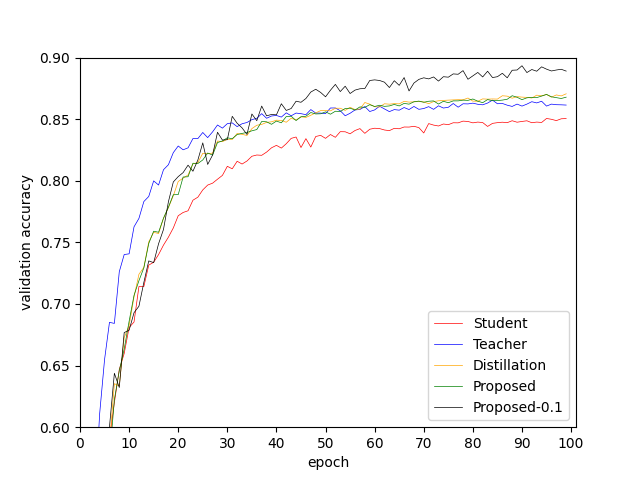
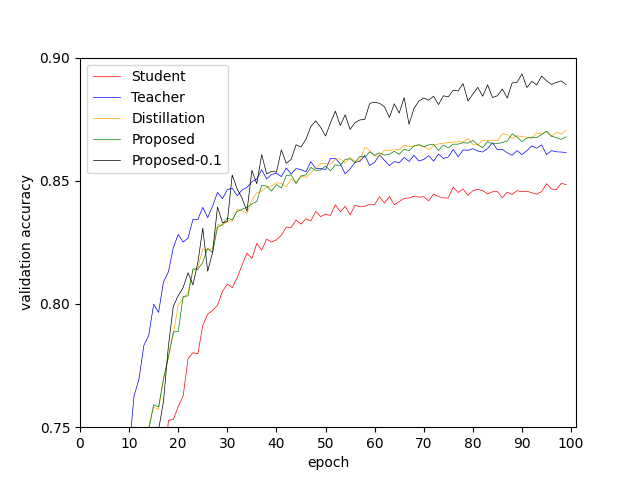
cam-distillation

diff --git a/resnet_train_kd.py b/resnet_train_kd.py
@@ -45,9 +45,9 @@ def main():
         test_dataloader = DataLoader(testset, batch_size=batch_size, shuffle=False)
         
         teacher = resnet_teacher().to(device)
-        student = SampleModel().to(device)
+        student = resnet_student().to(device)
         
-        teacher.load_state_dict(torch.load('./logs/resnet/teacher/' + str(i) + '.pth')) # 変更箇所: str(i) -> str(0)
+        teacher.load_state_dict(torch.load('./logs/resnet/teacher/' + str(i) + '.pth')) 
         loss_fn = nn.CrossEntropyLoss()
         student_hist = {'loss': [], 'accuracy': [], 'val_loss': [], 'val_accuracy': []}
         
@@ -81,7 +81,7 @@ def main():
                 images, labels = images.to(device), labels.to(device)
                 preds, _ = student(images)
                 targets, _ = teacher(images)
-                loss = loss_fn(preds, labels) + T*T*soft_loss(preds, targets)
+                loss = 0.5*loss_fn(preds, labels) + 0.5*T*T*soft_loss(preds, targets)
                 optim.zero_grad()
                 loss.backward()
                 optim.step()
@@ -97,7 +97,7 @@ def main():
                     images, labels = images.to(device), labels.to(device)
                     preds, _ = student(images)
                     targets, _ = teacher(images)
-                    loss = loss_fn(preds, labels) + T*T*soft_loss(preds, targets)
+                    loss = 0.5*loss_fn(preds, labels) + 0.5*T*T*soft_loss(preds, targets)
                     val_loss += loss.item()
                     val_acc += accuracy_score(labels.tolist(), preds.argmax(dim=-1).tolist())
                 val_loss /= len(val_dataloader)
@@ -106,8 +106,7 @@ def main():
             if score <= val_acc:
                 print('save param')
                 score = val_acc
-                # torch.save(student.state_dict(), './logs/resnet/st/' + str(i) + '.pth') 
-                torch.save(student.state_dict(), './logs/resnet/distillation/' + str(i) + '.pth') 
+                torch.save(student.state_dict(), './logs/resnet/st/' + str(i) + '.pth') 
             
             student_hist['loss'].append(train_loss)
             student_hist['accuracy'].append(train_acc)
@@ -116,13 +115,10 @@ def main():
 
             print(f'epoch: {epoch+1}, loss: {train_loss:.3f}, accuracy: {train_acc:.3f}, val_loss: {val_loss:.3f}, val_accuracy: {val_acc:.3f}')
             
-            # with open('./history/resnet/st/' + str(i) + '.pickle', mode='wb') as f:
-            #     pickle.dump(student_hist, f)
-            with open('./history/resnet/distillation/' + str(i) + '.pickle', mode='wb') as f:
+            with open('./history/resnet/st/' + str(i) + '.pickle', mode='wb') as f:
                 pickle.dump(student_hist, f)
 
-        # student.load_state_dict(torch.load('./logs/resnet/st/' + str(i) + '.pth'))
-        student.load_state_dict(torch.load('./logs/resnet/distillation/' + str(i) + '.pth'))
+        student.load_state_dict(torch.load('./logs/resnet/st/' + str(i) + '.pth'))
         test = {'acc': [], 'loss': []}
         # distillation student test
         student.eval()
@@ -141,10 +137,8 @@ def main():
 
         test['acc'].append(test_acc)
         test['loss'].append(test_loss)
-        # with open('./history/resnet/st/test' + str(i) + '.pickle', mode='wb') as f:
-        #     pickle.dump(test, f)
-        with open('./history/resnet/distillation/test' + str(i) + '.pickle', mode='wb') as f:
+        with open('./history/resnet/st/test' + str(i) + '.pickle', mode='wb') as f:
             pickle.dump(test, f)
-
+        
 if __name__ == '__main__':
     main()

diff --git a/resnet_test.py b/resnet_test.py
@@ -40,14 +40,14 @@ def main():
         student = resnet_student().to(device)
         test_model = resnet_student().to(device)
         st = resnet_student().to(device)
-        sample = resnet_student().to(device)
+        # sample = resnet_student().to(device)
         proposed = resnet_student().to(device)
         
         teacher.load_state_dict(torch.load('./logs/resnet/teacher/' + str(i) + '.pth'))
         student.load_state_dict(torch.load('./logs/resnet/student/' + str(i) + '.pth'))
-        # test_model.load_state_dict(torch.load('./logs/resnet/cam/' + str(i) + '.pth'))
-        # st.load_state_dict(torch.load('./logs/resnet/st/' + str(i) + '.pth'))
-        sample.load_state_dict(torch.load('./logs/resnet/sample/' + str(i) + '.pth'))
+        test_model.load_state_dict(torch.load('./logs/resnet/cam/' + str(i) + '.pth'))
+        st.load_state_dict(torch.load('./logs/resnet/st/' + str(i) + '.pth'))
+        # sample.load_state_dict(torch.load('./logs/resnet/sample/' + str(i) + '.pth'))
         proposed.load_state_dict(torch.load('./logs/resnet/cam/10.pth'))
         
         loss_fn = nn.CrossEntropyLoss()
@@ -57,7 +57,7 @@ def main():
         student.eval()
         test_model.eval()
         st.eval()
-        sample.eval()
+        # sample.eval()
         proposed.eval()
         
         with torch.no_grad():           

diff --git a/train_kd.py b/train_kd.py
@@ -14,7 +14,7 @@ from src.kd_loss.st import SoftTargetLoss
 import pickle
 
 def main():
-    for i in range(1):
+    for i in range(5):
         print(i+1)
         epochs = 50
         batch_size = 32
@@ -82,7 +82,7 @@ def main():
                 images, labels = images.to(device), labels.to(device)
                 preds = student(images)
                 targets = teacher(images)
-                loss = loss_fn(preds, labels) + T*T*soft_loss(preds, targets)
+                loss = 0.5*loss_fn(preds, labels) + 0.5*T*T*soft_loss(preds, targets)
                 optim.zero_grad()
                 loss.backward()
                 optim.step()

diff --git a/src/model.py b/src/model.py
@@ -403,11 +403,8 @@ class SampleModel(nn.Module):
         
 
 # ResNet98
-# def resnet_student(output_dim=10):
-#     return ResNetStudent(BottleNeck, [6,8,12,6], num_classes=output_dim)
-
 def resnet_student(output_dim=10):
-    return ResNetStudent(BottleNeck, [4,6,9,4], num_classes=output_dim)
+    return ResNetStudent(BottleNeck, [6,8,12,6], num_classes=output_dim)
 
 # ResNet50
 def resnet_teacher(output_dim=10):

diff --git a/resnet_result.py b/resnet_result.py
@@ -73,7 +73,7 @@ def main():
     plt.xticks(np.arange(0, 110, 10))
     plt.yticks(np.arange(0.55, 0.95, 0.05))
     plt.xlim(0, 101)
-    plt.ylim(0.60, 0.90)
+    plt.ylim(0.75, 0.90)
     
     plt.legend()
     plt.savefig('./result/resnet_result.png')
